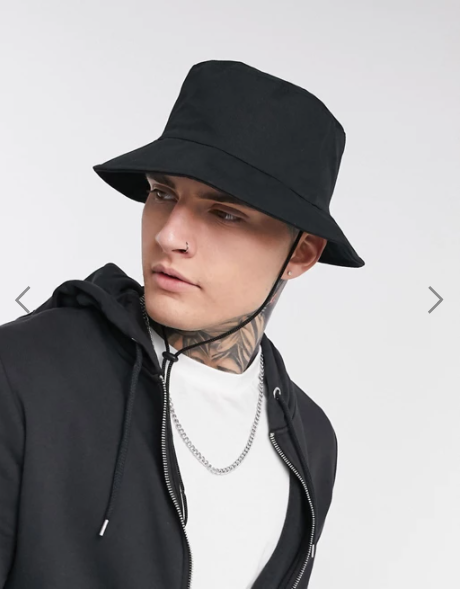
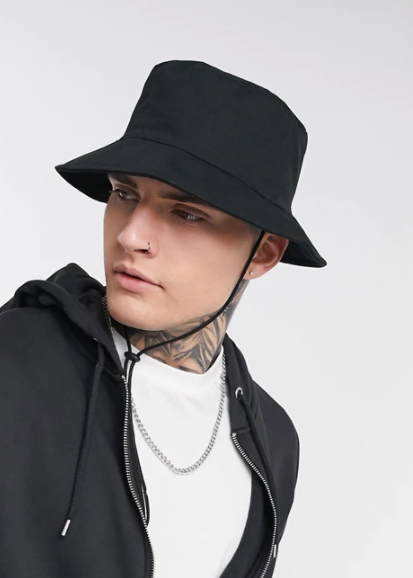
New  featured images update

diff --git a/index.html b/index.html
@@ -44,7 +44,7 @@
       </div>
       <div class="title">
         <h1>You need a <span>Snap</span>? <br />or a <span>Cap</span>?</h1>
-        <a href="#categories" class="btn"> Lets look Fresh</a>
+        <a href="#categories" class="titlebtn"> Lets look Fresh</a>
       </div>
     </header>
 
@@ -83,7 +83,7 @@
         <h2 id="text-dark" class="text">OUR BEST SELLERS</h2>
         <div class="row">
           <div class="col-4">
-            <img class="featured1" src="images/Snapback/SnapBack7.png" alt="" />
+            <img class="featured1" src="images/Bucket hats/Fila wilksy reversible bucket hat in camo.png" alt="" />
             <h4>Red Printed T-shirt</h4>
             <div class="rating">
               <i class="fa fa-star"></i><i class="fa fa-star"></i
@@ -140,7 +140,7 @@
           </div>
 
           <div class="col-4">
-            <img class="featured2" src="images/Snapback/SnapBack3.png" alt="" />
+            <img class="featured2" src="images/Beanie/Beanie5.png" alt="" />
             <h4>Red Printed T-shirt</h4>
             <div class="rating">
               <i class="fa fa-star"></i><i class="fa fa-star"></i
@@ -151,7 +151,7 @@
           </div>
 
           <div class="col-4">
-            <img class="featured3" src="images/Beanie/Beanie10.png" alt="" />
+            <img class="featured3" src="images/Bucket hats/Dickies X Obey reversible flat top bucket hat in navy 1.png" alt="" />
             <h4>Red Printed T-shirt</h4>
             <div class="rating">
               <i class="fa fa-star"></i><i class="fa fa-star"></i
@@ -162,7 +162,7 @@
           </div>
 
           <div class="col-4">
-            <img class="featured4" src="images/Beanie/Beanie7.png" alt="" />
+            <img class="featured4" src="images/Snapback/SnapBack5.png" alt="" />
             <h4>Red Printed T-shirt</h4>
             <div class="rating">
               <i class="fa fa-star"></i><i class="fa fa-star"></i
@@ -187,7 +187,7 @@
                   >Celebrating its 100th anniversary as a pioneer of home grooming in 2019, Wahl keeps you top of the crops with its professional-standard range. Fix up, look sharp with its beard trimmers, grooming sets and cordless clippers.</small
                 >
                 <br />
-                <a href="" class="btn">Buy Now &#8594;</a>
+                <a href="" class="offerbtn">Buy Now</a>
               </div>
             </div>
           </div>

diff --git a/styles.css b/styles.css
@@ -136,7 +136,8 @@ header {
 .title h1 span {
   color: #84c3f7;
 }
-.title a {
+
+.titlebtn {
   font-family: "Poppins", sans-serif;
   font-size: 18px;
   font-weight: 400;
@@ -150,7 +151,8 @@ header {
   box-shadow: 0px 0px 50px 25px #ffffff60;
   transition: background 0.3s;
 }
-.title a:hover {
+
+.titlebtn:hover {
   background: #fff;
   color: #333;
 }
@@ -233,7 +235,7 @@ header {
 /*------------- featured categories ----------------*/
 #featured-categories {
   padding-bottom: 30px;
-  background: linear-gradient(to bottom, #f5f5f5, rgb(216, 216, 216));
+  background: linear-gradient(to top, #EFEFED,#f6f6f6);
 }
 
 .col-4 {
@@ -283,8 +285,10 @@ h4 {
 /*------------------Offer----------------*/
 .offer {
   background: #EFEFED;
-  margin-top: 80px;
-  padding: 30px 0;
+}
+
+.offer p{
+  color:  #000;
 }
 
 .col-2 {
@@ -298,9 +302,10 @@ h4 {
 }
 
 .col-2 h1 {
-  font-size: 50px;
+  font-size: 40px;
   line-height: 60px;
   margin: 25px 0;
+  color:  #D8A95E;
 }
 
 .col-2 .offer-img {
@@ -309,4 +314,23 @@ h4 {
 
 small {
   color: #555;
+}
+
+.offerbtn {
+  background: #D8A95E;
+  font-family: "Poppins", sans-serif;
+  font-size: 20px;
+  font-weight: 600;
+  cursor: pointer;
+  padding: 15px 50px;
+  text-decoration: none;
+  text-transform: uppercase;
+  margin-top: 20px;
+  display: inline-block;
+  color: #000;
+  transition: background 0.3s;
+}
+
+.offerbtn:hover {
+  background:  #eec675;
 }
